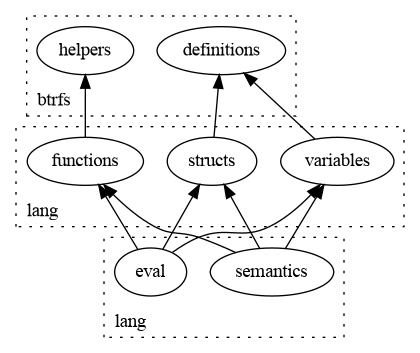
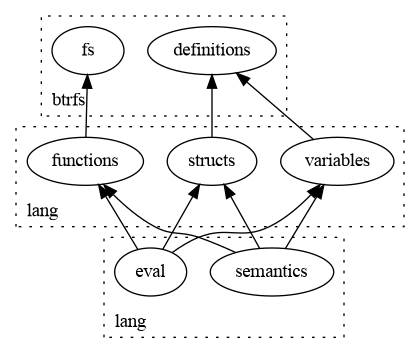
docs: Update arch

diff --git a/docs/architecture.md b/docs/architecture.md
@@ -24,6 +24,6 @@ Generic language modules. Abstract syntax tree data structure, runtime
 evaluation, AST parsing, and semantic analysis.
 
 * `btrfs/defintions.rs`
-* `btrfs/helpers.rs`
+* `btrfs/fs.rs`
 
 Contains btrfs on-disk structure definitions and helpers to read data off disk.
